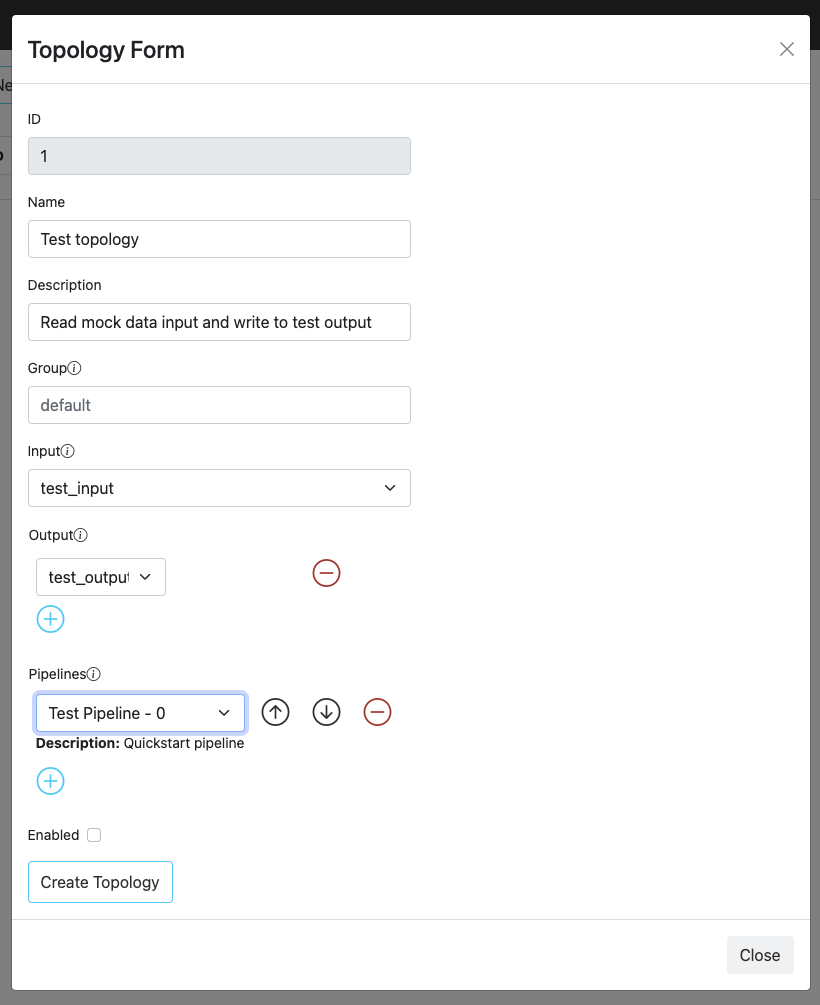
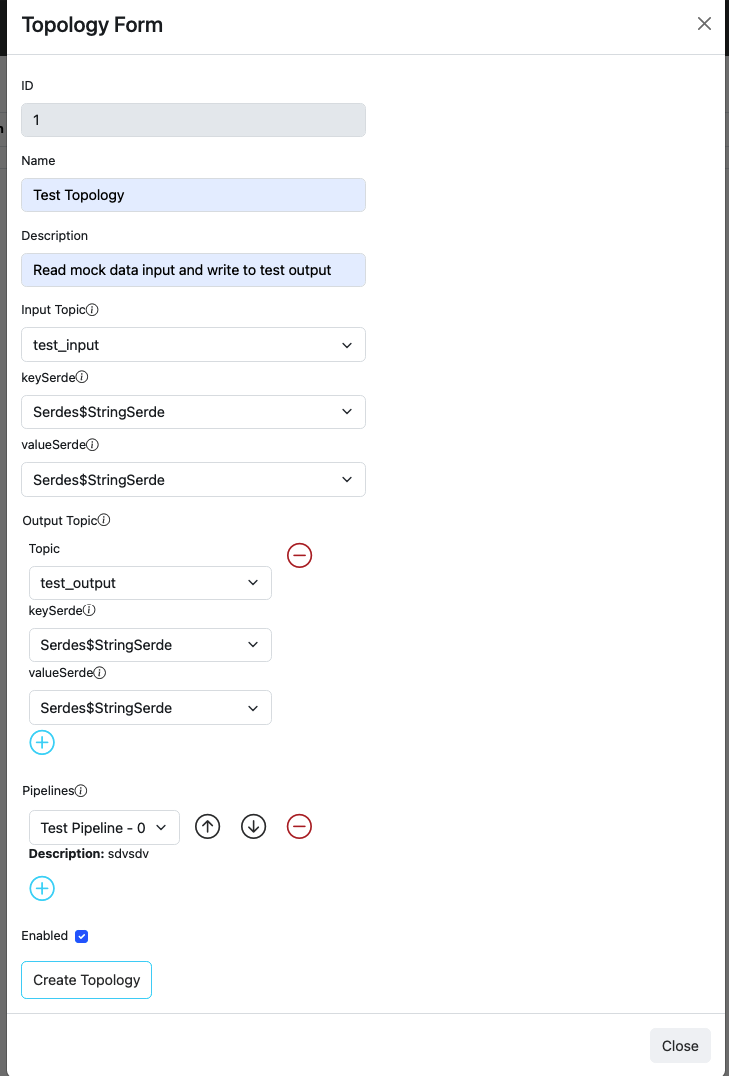
Deployed 6e917e3 to dev with MkDocs 1.5.3 and mike 1.1.2

diff --git a/dev/quickstart/index.html b/dev/quickstart/index.html
@@ -1158,7 +1158,7 @@ Upload the configurations from the corresponding menus.  Each of the views provi
 <p>Following steps will guide you through how to manually create these configuration items instead of uploading.</p>
 <ol>
 <li>
-<p><strong>Create Rules</strong>: Create couple of rules for <code>mydata</code> data model. with the above tasks.  From <a href="https://localhost:9000/rules">Rules</a> menu, click <span class="btn btn-padas">New Rule</span> button and fill in the details.
+<p><strong>Create Rules</strong>: Create couple of rules from <a href="https://localhost:9000/rules">Rules</a> menu, click <span class="btn btn-padas">New Rule</span> button and fill in the details.
     <figure markdown>
       <p>
       <img src="../assets/img/padas_ui_rule_create_1.png" class="w-50 img-fluid py-5">
@@ -1189,12 +1189,14 @@ Upload the configurations from the corresponding menus.  Each of the views provi
     </figure></p>
 </li>
 <li>
-<p><strong>Create Topology</strong>: Create a topology with the above pipeline that reads from <code>test_input</code> topic and writes to <code>test_output</code> topic.  From <a href="https://localhost:9000/topologies">Topologies</a> menu, click <span class="btn btn-padas">New Topology</span> button and fill in the details.
-    <figure markdown>
-      <p>
-      <img src="../assets/img/padas_ui_topology_create.png" class="w-50 img-fluid py-5">
-      </p>
-    </figure></p>
+<p><strong>Create Topology</strong>: Create a topology with the above pipeline that reads from <code>test_input</code> topic and writes to <code>test_output</code> topic.  From <a href="https://localhost:9000/topologies">Topologies</a> menu, click <span class="btn btn-padas">New Topology</span> button and fill in the details.</p>
+<p><code>keySerde:</code> topic key SerDe, if not specified default is "org.apache.kafka.common.serialization.Serdes$StringSerde".
+  <code>valueSerde:</code> topic value SerDe, if not specified default is "org.apache.kafka.common.serialization.Serdes$StringSerde".</p>
+<p><figure markdown>
+  <p>
+  <img src="../assets/img/padas_ui_topology_create.png" class="w-50 img-fluid py-5">
+  </p>
+</figure></p>
 </li>
 <li>
 <p><strong>Restart Node</strong>: Once a new topology is created we need to let Padas Engine know about it by restarting the node.  You can do this from the console (<code>CTRL-C</code> and start, or stop/start the service, etc.) or you can also do this from the UI from <a href="https://localhost:9000/nodes">Nodes</a> menu, click <span class="btn btn-padas">Start</span> button and you should see the state change to <code>RUNNING</code> for this node.
